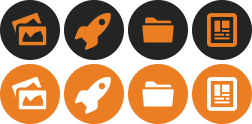
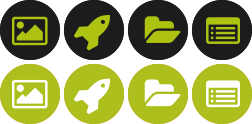
styling identity

diff --git a/client/app/bienvenido/bienvenido.js b/client/app/bienvenido/bienvenido.js
@@ -34,19 +34,6 @@ angular.module('padApp')
           'content': {
             templateUrl: 'app/bienvenido/presentacion.html',
             controller: function($scope, $window) {
-              var timer = setInterval(function(){
-                if ($('.swiper-container').length > 0){
-                  var Swiper = $window.Swiper;
-                   new Swiper('.swiper-container', {
-                        pagination: '.swiper-pagination',
-                        paginationClickable: true,
-                        spaceBetween: 50,
-                        autoplay: 7000,
-                        speed: 600
-                    });
-                  $window.clearInterval(timer);
-                }
-              }, 100);
             }
           }
         }

diff --git a/client/app/bienvenido/presentacion.html b/client/app/bienvenido/presentacion.html
@@ -97,17 +97,3 @@
     <p><small>Provincia de Buenos Aires</small></p>
   </div>
 </div>
-
-<hr>
-
-<div class="presentation text-center">
-   <div class="swiper-container">
-    <div class="swiper-wrapper">
-        <div ng-repeat="num in [1,2,3,4,5,6,7]" class="swiper-slide">
-          <img ng-src="/assets/img/imagenes_presentacion/img_0{{num}}.png" alt="" class="img-responsive" width="100%">
-        </div>
-    </div>
-    <!-- Add Pagination -->
-    <div class="swiper-pagination"></div>
-  </div>
-</div>

diff --git a/app/assets/css/app.css b/app/assets/css/app.css
@@ -97,7 +97,7 @@ h1 {
   color: #242526; }
 
 #progreso {
-  background-color: #ec7f24; }
+  background-color: #80a424; }
 
 #textProgress {
   font-family: 'Comfortaa Light';

diff --git a/client/styles/00.variables.scss b/client/styles/00.variables.scss
@@ -1,6 +1,6 @@
 $pad-cream-color: #f3eddd;
 
-$ba-color: #ec7f24;
+$ba-color: #80a424;
 $black-color: #242526;
 
 $light-cover: 70%;

diff --git a/client/app/bienvenido/bienvenido.html b/client/app/bienvenido/bienvenido.html
@@ -1,5 +1,3 @@
-<div class="mapa-bienvenida"></div>
-
 <div class="container">
   
   <div class="row welcome-wrap">
